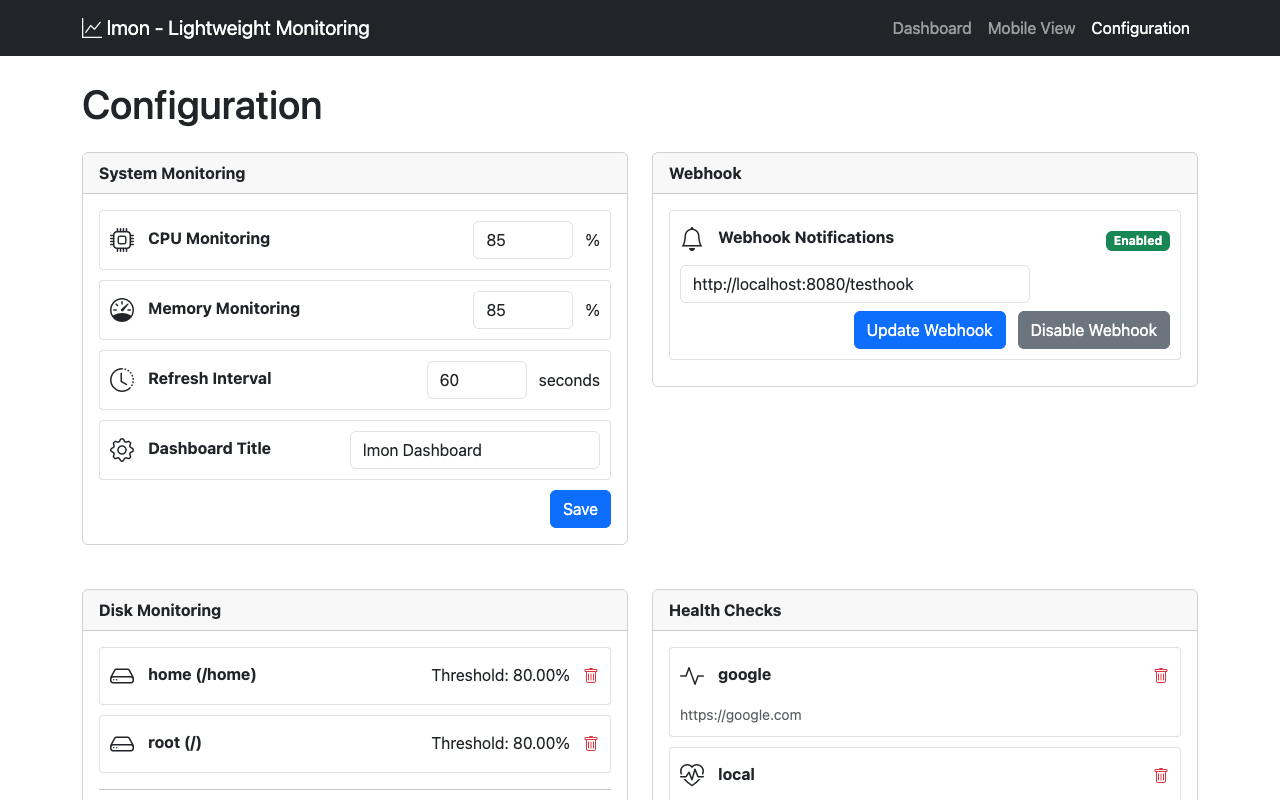
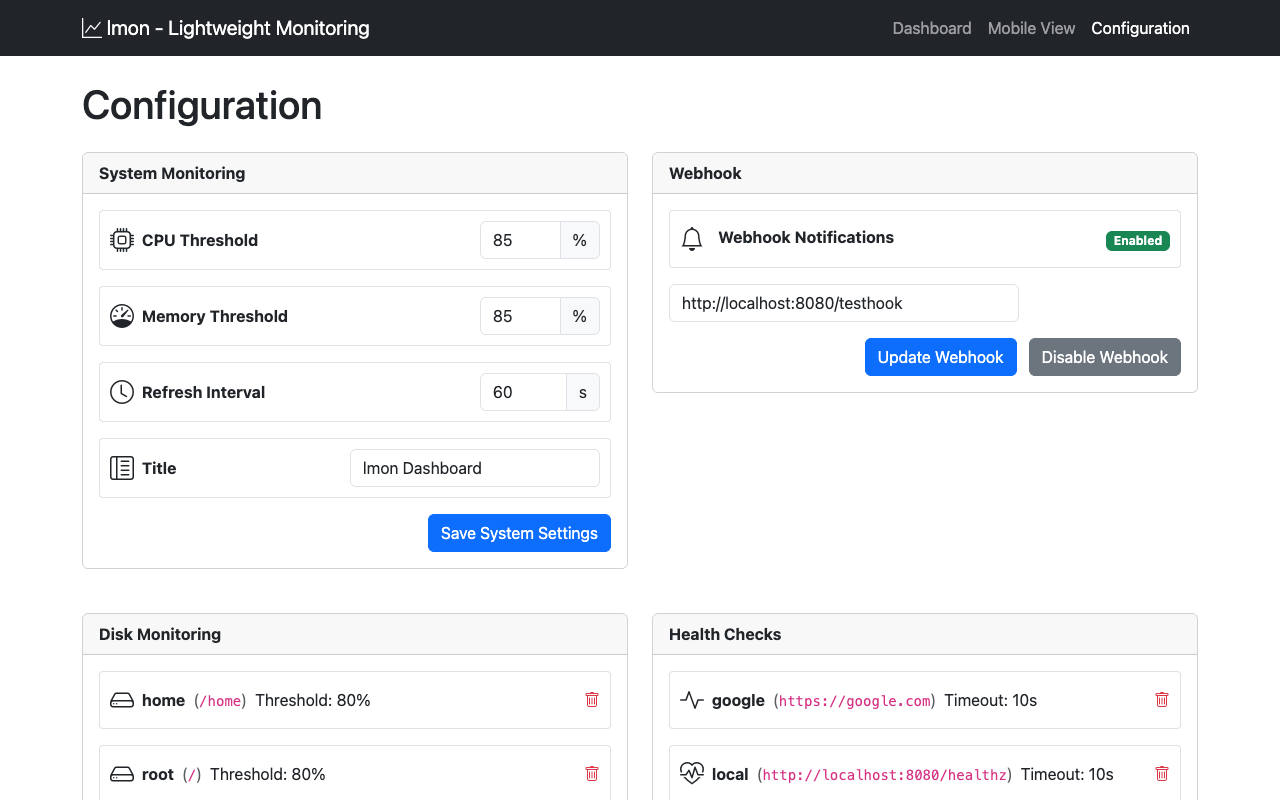
refactor: update HTML structure and class names for disk and health configuration items

diff --git a/web/templates/config-health-list.html b/web/templates/config-health-list.html
@@ -7,11 +7,11 @@
         <div class="config-item mb-3">
             <div class="d-flex align-items-center">
                 <i class="bi bi-{{ $health.Icon }} item-icon me-2"></i>
-                <strong class="me-2">{{ $id }}</strong>
-                <span class="me-2 text-muted"
+                <strong class="me-2 config-item-name">{{ $id }}</strong>
+                <span class="me-2 text-muted config-item-url"
                     >(<code>{{ $health.URL }}</code>)</span
                 >
-                <span class="me-2">Timeout: {{ $health.Timeout }}s</span>
+                <span class="me-2 config-item-timeout">Timeout: {{ $health.Timeout }}s</span>
                 <button
                     type="button"
                     class="delete-health-btn ms-auto p-0 btn btn-link"

diff --git a/web/templates/config-disk-list.html b/web/templates/config-disk-list.html
@@ -7,8 +7,8 @@
         <div class="config-item mb-3">
             <div class="d-flex align-items-center">
                 <i class="bi bi-{{ $disk.Icon }} item-icon me-2"></i>
-                <strong class="me-2">{{ $id }}</strong>
-                <span class="me-2 text-muted"
+                <span class="config-item-name"><strong class="me-2">{{ $id }}</strong></span>
+                <span class="me-2 text-muted config-item-path"
                     >(<code>{{ $disk.Path }}</code>)</span
                 >
                 <span class="me-2">Threshold: {{ $disk.Threshold }}%</span>

diff --git a/web/server_test.go b/web/server_test.go
@@ -71,15 +71,6 @@ func TestGetIndex(t *testing.T) {
 	assert.Less(t, 7000, len(body), "index returned is about the same length as the template")
 }
 
-// within returns true if i2 is within the given tolerance of i.
-func within(i int, i2 int, tolerance float64) bool {
-	d := i - i2
-	if d < 0 {
-		d = -d
-	}
-	return float64(d)/float64(i) < tolerance
-}
-
 // TestGetConfig checks that the /config endpoint returns the configuration HTML.
 func TestGetConfig(t *testing.T) {
 	ctx, cancel := context.WithCancel(t.Context())
@@ -216,7 +207,7 @@ func TestDeleteDisk(t *testing.T) {
 	assert.False(t, exists, "deleted disk should not be in /api/items")
 
 	resp, body = DeleteTestRequest(ctx, t, s, "/api/config/disk/"+id)
-	assert.Equal(t, http.StatusNotFound, resp.StatusCode, "status code")
+	assert.Equal(t, http.StatusBadRequest, resp.StatusCode, "status code")
 }
 
 // TestAddHealthcheck verifies adding a healthcheck monitor via the API.
@@ -280,7 +271,7 @@ func TestDeleteHealthcheck(t *testing.T) {
 	assert.False(t, exists, "deleted healthcheck should not be in /api/items")
 
 	resp, body = DeleteTestRequest(ctx, t, s, "/api/config/health/"+id)
-	assert.Equal(t, http.StatusNotFound, resp.StatusCode, "status code")
+	assert.Equal(t, http.StatusBadRequest, resp.StatusCode, "status code")
 
 }
 
@@ -445,7 +436,7 @@ func TestGetItems(t *testing.T) {
 	})
 	t.Run("getItem missing", func(t *testing.T) {
 		resp, body = GetTestRequest(ctx, t, s, "/api/items/disk/missing")
-		assert.Equal(t, http.StatusNotFound, resp.StatusCode, "status code")
+		assert.Equal(t, http.StatusBadRequest, resp.StatusCode, "status code")
 	})
 }
 
@@ -543,13 +534,13 @@ func Test_newUIResult(t *testing.T) {
 		args args
 		want UIResult
 	}{
-		{"disk", args{"disk_test_d", monitors.Result{Group: disk.Group, Status: monitors.RAGGreen}}, UIResult{Status: monitors.RAGGreen, Icon: "disk-Icon", Group: disk.Group, Threshold: 90, TypeLabel: "Disk"}},
-		{"health", args{"health_test_h", monitors.Result{Group: healthcheck.Group, Status: monitors.RAGRed}}, UIResult{Status: monitors.RAGRed, Icon: "health-Icon", Group: healthcheck.Group, TypeLabel: "Health"}},
-		{"cpu", args{"system_cpu", monitors.Result{Group: system.Group, DisplayName: "cpu", Status: monitors.RAGRed}}, UIResult{Status: monitors.RAGRed, Icon: "cpu-Icon", Group: system.Group, DisplayName: "cpu", Threshold: 90, TypeLabel: "System"}},
-		{"mem", args{"system_mem", monitors.Result{Group: system.Group, DisplayName: "mem", Status: monitors.RAGAmber}}, UIResult{Status: monitors.RAGAmber, Icon: "mem-Icon", Group: system.Group, DisplayName: "mem", Threshold: 90, TypeLabel: "System"}},
-		{"disk-fallback", args{"disk_test_not-found", monitors.Result{Group: disk.Group, Status: monitors.RAGGreen}}, UIResult{Status: monitors.RAGGreen, Icon: disk.Icon, Group: disk.Group, Threshold: 0, TypeLabel: "Disk"}},
-		{"health-fallback", args{"health_test_not-found", monitors.Result{Group: healthcheck.Group, Status: monitors.RAGRed}}, UIResult{Status: monitors.RAGRed, Icon: healthcheck.Icon, Group: healthcheck.Group, TypeLabel: "Health"}},
-		{"fallback", args{"unknown_unknown", monitors.Result{Group: "unknown", Status: monitors.RAGError}}, UIResult{Status: monitors.RAGError, Icon: "folder", Group: "unknown"}},
+		{"disk", args{"disk_test_d", monitors.Result{Group: disk.Group, Status: monitors.RAGGreen}}, UIResult{ID: "disk_test_d", Status: monitors.RAGGreen, Icon: "disk-Icon", Group: disk.Group, Threshold: 90, TypeLabel: "Disk", StatusClass: "status-ok"}},
+		{"health", args{"health_test_h", monitors.Result{Group: healthcheck.Group, Status: monitors.RAGRed}}, UIResult{ID: "health_test_h", Status: monitors.RAGRed, Icon: "health-Icon", Group: healthcheck.Group, TypeLabel: "Health", StatusClass: "status-error"}},
+		{"cpu", args{"system_cpu", monitors.Result{Group: system.Group, DisplayName: "cpu", Status: monitors.RAGRed}}, UIResult{ID: "system_cpu", Status: monitors.RAGRed, Icon: "cpu-Icon", Group: system.Group, DisplayName: "cpu", Threshold: 90, TypeLabel: "System", StatusClass: "status-error"}},
+		{"mem", args{"system_mem", monitors.Result{Group: system.Group, DisplayName: "mem", Status: monitors.RAGAmber}}, UIResult{ID: "system_mem", Status: monitors.RAGAmber, Icon: "mem-Icon", Group: system.Group, DisplayName: "mem", Threshold: 90, TypeLabel: "System", StatusClass: "status-warning"}},
+		{"disk-fallback", args{"disk_test_not-found", monitors.Result{Group: disk.Group, Status: monitors.RAGGreen}}, UIResult{ID: "disk_test_not-found", Status: monitors.RAGGreen, Icon: disk.Icon, Group: disk.Group, Threshold: 0, TypeLabel: "Disk", StatusClass: "status-ok"}},
+		{"health-fallback", args{"health_test_not-found", monitors.Result{Group: healthcheck.Group, Status: monitors.RAGRed}}, UIResult{ID: "health_test_not-found", Status: monitors.RAGRed, Icon: healthcheck.Icon, Group: healthcheck.Group, TypeLabel: "Health", StatusClass: "status-error"}},
+		{"fallback", args{"unknown_unknown", monitors.Result{Group: "unknown", Status: monitors.RAGError}}, UIResult{ID: "unknown_unknown", Status: monitors.RAGError, Icon: "folder", Group: "unknown", StatusClass: "status-critical"}},
 	}
 	for _, tt := range tests {
 		t.Run(tt.name, func(t *testing.T) {

diff --git a/uitest/main_test.go b/uitest/main_test.go
@@ -51,10 +51,10 @@ func TestDefaultConfigUIRod(t *testing.T) {
 	s.Start(ctx)
 
 	browser := getBrowser(t)
-	defer browser.MustClose()
+	defer browser.Close()
 	page, err := browser.Page(proto.TargetCreateTarget{URL: s.ServerUrl})
 	require.NoError(t, err, "open page")
-	defer page.MustClose()
+	defer page.Close()
 
 	// Wait for CPU and Memory items to appear by data-id
 	_, err = page.Timeout(1 * time.Second).Element(`#system-items .list-group-item[data-id="system_cpu"]`)
@@ -108,10 +108,10 @@ func TestAddDiskViaConfigUIRod(t *testing.T) {
 	s.Start(ctx)
 
 	browser := getBrowser(t)
-	defer browser.MustClose()
+	defer browser.Close()
 	page, err := browser.Page(proto.TargetCreateTarget{URL: s.ServerUrl})
 	require.NoError(t, err, "open page")
-	defer page.MustClose()
+	defer page.Close()
 
 	// Navigate to the config tab
 	el, err := page.Element(`a.nav-link[href="/config"]`)
@@ -138,8 +138,44 @@ func TestAddDiskViaConfigUIRod(t *testing.T) {
 	submitEl.MustClick()
 
 	// Wait for the disk to appear in the config list
-	_, err = page.Timeout(1*time.Second).ElementR("#disk-config-items .config-item", "root.*\\(/\\)")
-	require.NoError(t, err, "wait for disk in config list")
+	// The config list now uses two divs per item, and may require a refresh for the new item to appear.
+	// Refresh the page to ensure the new disk appears.
+	err = page.Timeout(time.Second).Reload()
+	require.NoError(t, err, "wait for reload after adding disk")
+	// Instead of using ElementR with a regex, explicitly check for the presence of both spans.
+	// Wait for a config item with disk name "root" and path "/"
+	var found bool
+	for start := time.Now(); time.Since(start) < 2*time.Second; {
+		items, err := page.Elements(`#disk-config-items .config-item`)
+		require.NoError(t, err, "get disk config items")
+		for _, item := range items {
+			nameSpan, err := item.Element(`.config-item-name`)
+			if err != nil {
+				continue
+			}
+			nameText, err := nameSpan.Text()
+			if err != nil {
+				continue
+			}
+			pathSpan, err := item.Element(`.config-item-path`)
+			if err != nil {
+				continue
+			}
+			pathText, err := pathSpan.Text()
+			if err != nil {
+				continue
+			}
+			if nameText == "root" && pathText == "(/)" {
+				found = true
+				break
+			}
+		}
+		if found {
+			break
+		}
+		time.Sleep(100 * time.Millisecond)
+	}
+	require.True(t, found, "wait for disk in config list")
 
 	// Navigate back to dashboard
 	el, err = page.Element(`a.nav-link[href="/"]`)
@@ -182,11 +218,8 @@ func TestAddDiskViaConfigUIRod(t *testing.T) {
 	el, err = page.Element(`a.nav-link[href="/config"]`)
 	require.NoError(t, err, "find config tab (delete)")
 	el.MustClick()
-	_, err = page.Timeout(1 * time.Second).Element(`#disk-config-items`)
-	require.NoError(t, err, "wait for disk-config-items")
-	_, err = page.ElementR(`#disk-config-items .config-item`, "root.*\\(/\\)")
-	require.NoError(t, err, "find disk_root config item")
-	delEl, err := page.Timeout(1 * time.Second).Element(`button.delete-btn[data-type="disk"][data-id="root"]`)
+
+	delEl, err := page.Timeout(1 * time.Second).Element(`button.delete-disk-btn[data-id="root"]`)
 	require.NoError(t, err, "find delete button for disk_root")
 	wait, handle := page.HandleDialog()
 	go delEl.MustClick()
@@ -216,10 +249,10 @@ func TestAddHealthCheckViaConfigUIRod(t *testing.T) {
 	s.Start(ctx)
 
 	browser := getBrowser(t)
-	defer browser.MustClose()
+	defer browser.Close()
 	page, err := browser.Page(proto.TargetCreateTarget{URL: s.ServerUrl})
 	require.NoError(t, err, "open page")
-	defer page.MustClose()
+	defer page.Close()
 
 	// Navigate to the config tab
 	// err := page.WaitStable(time.Second)
@@ -314,7 +347,7 @@ func TestAddHealthCheckViaConfigUIRod(t *testing.T) {
 	require.NoError(t, err, "find health check config items")
 	_, err = page.ElementR(`#health-config-items .config-item`, "local")
 	require.NoError(t, err, "find health check item in config list")
-	el, err = page.Timeout(1 * time.Second).Element(`button.delete-btn[data-type="health"][data-id="local"]`)
+	el, err = page.Timeout(1 * time.Second).Element(`button.delete-health-btn[data-id="local"]`)
 	require.NoError(t, err, "find health check delete button")
 	wait, handle := page.HandleDialog()
 	go el.MustClick()

diff --git a/web/server.go b/web/server.go
@@ -472,7 +472,7 @@ func (s *Server) handleGetItem(w http.ResponseWriter, r *http.Request) {
 	name := group + "_" + id
 	item, ok := items[name]
 	if !ok {
-		http.Error(w, http.StatusText(http.StatusNotFound), http.StatusNotFound)
+		http.Error(w, http.StatusText(http.StatusNotFound), http.StatusBadRequest)
 		log.Printf("handleGetItem: item not found: %s", id)
 		return
 	}
@@ -687,7 +687,7 @@ func (s *Server) handleDeleteMonitor(ctx context.Context) http.HandlerFunc {
 		if err != nil {
 			log.Printf("handleAddHealthCheck %s: %v", r.URL.String(), err)
 			if errors.As(err, &monitors.ErrNotFound{}) {
-				http.Error(w, http.StatusText(http.StatusNotFound), http.StatusNotFound)
+				http.Error(w, http.StatusText(http.StatusNotFound), http.StatusBadRequest)
 				return
 			}
 			http.Error(w, err.Error(), http.StatusInternalServerError)

diff --git a/uitest/screenshots_test.go b/uitest/screenshots_test.go
@@ -22,9 +22,9 @@ func Test_GenerateScreenshots(t *testing.T) {
 	s.Start(ctx)
 
 	browser := getBrowser(t)
-	defer browser.MustClose()
+	defer browser.Close()
 	page := browser.MustPage(s.ServerUrl)
-	defer page.MustClose()
+	defer page.Close()
 
 	_, err := page.Timeout(1 * time.Second).Element(`#system-items .list-group-item[data-id="system_cpu"]`)
 	require.NoError(t, err, "should find cpu monitor")
